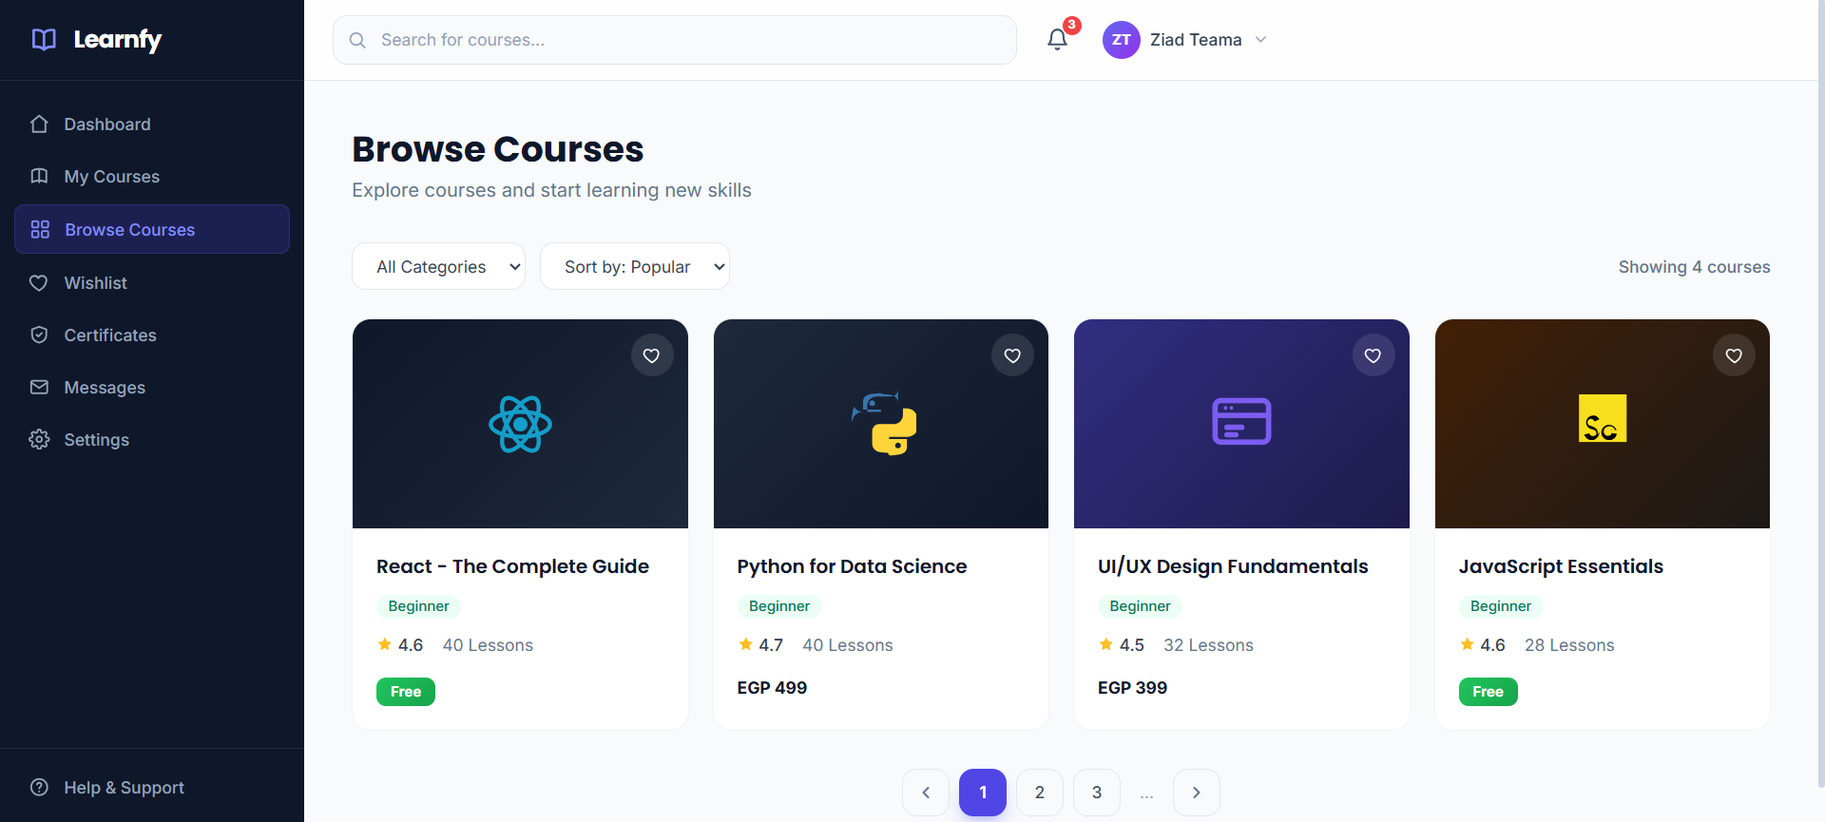
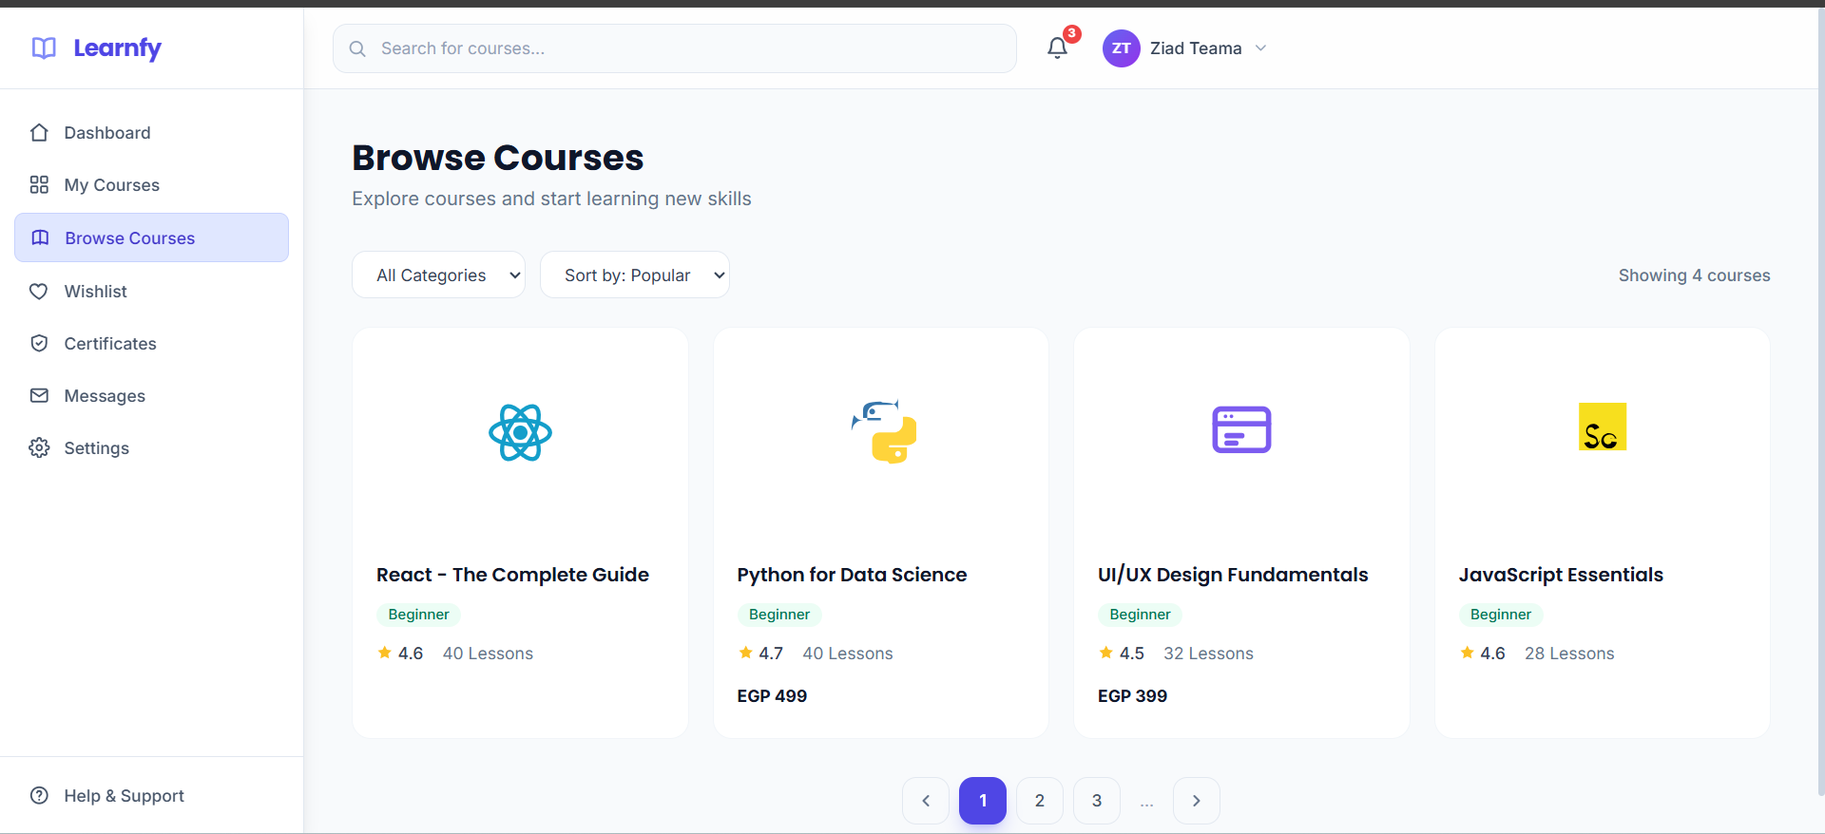
lighten the design

diff --git a/index.html b/index.html
@@ -1,9 +1,9 @@
 <!DOCTYPE html>
-<html lang="en" dir="ltr">
+<html lang="ar" dir="ltr">
 <head>
     <meta charset="UTF-8">
     <meta name="viewport" content="width=device-width, initial-scale=1, viewport-fit=cover">
-    <title>Learnfy — Browse Courses</title>
+    <title>Learnfy — My Courses</title>
     <link rel="preconnect" href="https://fonts.googleapis.com">
     <link rel="preconnect" href="https://fonts.gstatic.com" crossorigin>
     <link href="https://fonts.googleapis.com/css2?family=Inter:wght@400;500;600;700;800&family=Poppins:wght@600;700;800&display=swap" rel="stylesheet">
@@ -21,8 +21,8 @@
                         'primary-dark': '#4338ca',
                         danger: '#ef4444',
                         success: '#22c55e',
-                        'sidebar-bg': '#0f172a',
-                        'sidebar-hover': '#1e293b',
+                        'sidebar-bg': '#ffffff',
+                        'sidebar-hover': '#eef2ff',
                         'card-bg': '#ffffff',
                         'body-bg': '#f8fafc',
                         'text-muted': '#64748b',
@@ -33,43 +33,37 @@
         }
     </script>
     <style>
-        html{scroll-behavior:smooth;} body { font-family: 'Inter', sans-serif; background-color: #f8fafc; } #sidebar{scrollbar-width:none;} #sidebar::-webkit-scrollbar{display:none;}
+        body { font-family: 'Inter', sans-serif; background-color: #f8fafc; }
         .font-display { font-family: 'Poppins', sans-serif; }
 
-        /* Custom scrollbar */
         ::-webkit-scrollbar { width: 6px; }
         ::-webkit-scrollbar-track { background: transparent; }
         ::-webkit-scrollbar-thumb { background: #cbd5e1; border-radius: 3px; }
         ::-webkit-scrollbar-thumb:hover { background: #94a3b8; }
 
-        /* Card image backgrounds */
-        .card-img-react { background: linear-gradient(135deg, #0f172a 0%, #1e293b 100%); }
-        .card-img-python { background: linear-gradient(135deg, #1e293b 0%, #0f172a 100%); }
-        .card-img-uiux { background: linear-gradient(135deg, #312e81 0%, #1e1b4b 100%); }
-        .card-img-js { background: linear-gradient(135deg, #422006 0%, #1c1917 100%); }
-
-        /* Wishlist animation */
-        .wishlist-btn:active svg { transform: scale(0.85); }
-        .wishlist-btn svg { transition: transform 0.15s ease; }
-
-        /* Card hover lift */
         .course-card { transition: transform 0.2s ease, box-shadow 0.2s ease; }
-        .course-card:hover { transform: translateY(-4px); box-shadow: 0 20px 25px -5px rgba(0,0,0,0.1), 0 10px 10px -5px rgba(0,0,0,0.04); }
+        .course-card:hover { transform: translateY(-2px); box-shadow: 0 10px 15px -3px rgba(0,0,0,0.08), 0 4px 6px -2px rgba(0,0,0,0.04); }
 
-        /* Nav link transition */
         .nav-link-item { transition: all 0.2s ease; }
-
-        /* Sidebar transition */
         .sidebar-panel { transition: transform 0.3s cubic-bezier(0.4, 0, 0.2, 1); }
-
-        /* Overlay fade */
         .sidebar-overlay { transition: opacity 0.3s ease; }
 
-        /* Pagination button */
-        .page-btn { transition: all 0.15s ease; }
+        .dropdown-panel { transition: opacity 0.15s ease, transform 0.15s ease; }
+        .dropdown-panel.hidden { opacity: 0; transform: translateY(-4px); pointer-events: none; }
+        .dropdown-panel:not(.hidden) { opacity: 1; transform: translateY(0); pointer-events: auto; }
 
-        /* Free badge */
-        .badge-free { background: linear-gradient(135deg, #22c55e 0%, #16a34a 100%); }
+        .tab-btn { transition: all 0.2s ease; }
+
+        .progress-fill { transition: width 0.6s cubic-bezier(0.4, 0, 0.2, 1); }
+
+        .icon-react { background: linear-gradient(135deg,#eef2ff,#dbeafe); }
+        .icon-python { background: linear-gradient(135deg,#eef2ff,#dbeafe); }
+        .icon-uiux { background: linear-gradient(135deg,#eef2ff,#dbeafe); }
+        .icon-excel { background: linear-gradient(135deg,#eef2ff,#dbeafe); }
+    
+        .nav-link-item:hover{transform:translateX(6px);}
+        .course-card:hover{transform:translateY(-6px);box-shadow:0 20px 40px rgba(0,0,0,.08);}
+
     </style>
 </head>
 <body class="bg-body-bg text-slate-800 antialiased">
@@ -80,40 +74,65 @@
     <div class="flex min-h-screen">
 
         <!-- SIDEBAR -->
-        <aside id="sidebar" class="sidebar-panel fixed top-0 left-0 h-screen z-50 w-64 bg-sidebar-bg text-slate-300 flex flex-col overflow-y-auto transform -translate-x-full lg:translate-x-0">
-            <!-- Brand -->
-            <div class="flex items-center gap-3 px-6 py-5 border-b border-slate-700/50">
-                <svg width="26" height="26" viewBox="0 0 24 24" fill="none" stroke="currentColor" stroke-width="2" stroke-linecap="round" stroke-linejoin="round" class="text-indigo-400">
-                    <path d="M12 7c-2-2-5-2.5-8-2v13c3-.5 6 0 8 2 2-2 5-2.5 8-2V5c-3-.5-6 0-8 2Z"/><path d="M12 7v13"/>
+        <aside id="sidebar" class="sidebar-panel fixed inset-y-0 left-0 z-50 w-64 bg-white text-slate-700 border-r border-slate-200 shadow-lg flex flex-col transform -translate-x-full lg:translate-x-0">
+
+            <!-- Close button (mobile) -->
+            <button id="sidebarClose" class="lg:hidden absolute top-4 right-4 p-2 rounded-lg hover:bg-slate-700 text-slate-400" aria-label="إغلاق القائمة" onclick="toggleMenu()">
+                <svg width="16" height="16" viewBox="0 0 24 24" fill="none" stroke="currentColor" stroke-width="2" stroke-linecap="round">
+                    <path d="M18 6 6 18M6 6l12 12"/>
                 </svg>
-                <span class="font-display font-bold text-xl text-white tracking-tight">Learnfy</span>
+            </button>
+
+            <!-- Brand -->
+            <div class="flex items-center gap-3 px-6 py-5 border-b border-slate-200">
+                <svg width="26" height="26" viewBox="0 0 24 24" fill="none" stroke="currentColor" stroke-width="2" stroke-linecap="round" stroke-linejoin="round" class="text-indigo-400">
+                    <path d="M12 7c-2-2-5-2.5-8-2v13c3-.5 6 0 8 2 2-2 5-2.5 8-2V5c-3-.5-6 0-8 2Z"/>
+                    <path d="M12 7v13"/>
+                </svg>
+                <span class="font-display font-bold text-xl text-indigo-600 tracking-tight">Learnfy</span>
             </div>
 
             <!-- Navigation -->
-            <nav class="flex-1 overflow-y-auto py-4 px-3 space-y-1">
-                <button class="nav-link-item w-full flex items-center gap-3 px-3 py-2.5 rounded-lg text-sm font-medium hover:bg-sidebar-hover hover:text-white text-slate-400">
-                    <svg width="18" height="18" viewBox="0 0 24 24" fill="none" stroke="currentColor" stroke-width="2" stroke-linecap="round" stroke-linejoin="round"><path d="M3 10.5 12 3l9 7.5"/><path d="M5 9.5V21h14V9.5"/></svg>
+            <nav class="flex-1 overflow-y-auto py-4 px-3 space-y-1" aria-label="التنقل">
+                <button class="nav-link-item w-full flex items-center gap-3 px-3 py-2.5 rounded-lg text-sm font-medium hover:bg-indigo-50 hover:text-indigo-600 text-slate-600">
+                    <svg width="18" height="18" viewBox="0 0 24 24" fill="none" stroke="currentColor" stroke-width="2" stroke-linecap="round" stroke-linejoin="round">
+                        <path d="M3 10.5 12 3l9 7.5"/>
+                        <path d="M5 9.5V21h14V9.5"/>
+                    </svg>
                     Dashboard
                 </button>
 
                 <a href="MyCourses.html" class="block">
-                    <button class="nav-link-item w-full flex items-center gap-3 px-3 py-2.5 rounded-lg text-sm font-medium hover:bg-sidebar-hover hover:text-white text-slate-400">
-                        <svg width="18" height="18" viewBox="0 0 24 24" fill="none" stroke="currentColor" stroke-width="2" stroke-linecap="round" stroke-linejoin="round"><path d="M4 6c2-1.5 5-2 8-2s6 .5 8 2v13c-2-1.5-5-2-8-2s-6 .5-8 2Z"/><path d="M12 4v15"/></svg>
+                    <button class="nav-link-item w-full flex items-center gap-3 px-3 py-2.5 rounded-lg text-sm font-medium hover:bg-indigo-50 hover:text-indigo-600 text-slate-600">
+                        <svg width="18" height="18" viewBox="0 0 24 24" fill="none" stroke="currentColor" stroke-width="2" stroke-linecap="round" stroke-linejoin="round">
+                            <rect x="3" y="3" width="7" height="7" rx="1.5"/>
+                            <rect x="14" y="3" width="7" height="7" rx="1.5"/>
+                            <rect x="3" y="14" width="7" height="7" rx="1.5"/>
+                            <rect x="14" y="14" width="7" height="7" rx="1.5"/>
+                        </svg>
                         My Courses
                     </button>
                 </a>
 
-                <button class="nav-link-item w-full flex items-center gap-3 px-3 py-2.5 rounded-lg text-sm font-medium bg-indigo-600/20 text-indigo-400 border border-indigo-500/20">
-                    <svg width="18" height="18" viewBox="0 0 24 24" fill="none" stroke="currentColor" stroke-width="2" stroke-linecap="round" stroke-linejoin="round"><rect x="3" y="3" width="7" height="7" rx="1.5"/><rect x="14" y="3" width="7" height="7" rx="1.5"/><rect x="3" y="14" width="7" height="7" rx="1.5"/><rect x="14" y="14" width="7" height="7" rx="1.5"/></svg>
+                
+
+                <button class="nav-link-item w-full flex items-center gap-3 px-3 py-2.5 rounded-lg text-sm font-medium bg-indigo-100 text-indigo-700 border border-indigo-200" aria-current="page">
+                    <svg width="18" height="18" viewBox="0 0 24 24" fill="none" stroke="currentColor" stroke-width="2" stroke-linecap="round" stroke-linejoin="round">
+                        <path d="M4 6c2-1.5 5-2 8-2s6 .5 8 2v13c-2-1.5-5-2-8-2s-6 .5-8 2Z"/>
+                        <path d="M12 4v15"/>
+                    </svg>
                     Browse Courses
                 </button>
+                
 
-                <button class="nav-link-item w-full flex items-center gap-3 px-3 py-2.5 rounded-lg text-sm font-medium hover:bg-sidebar-hover hover:text-white text-slate-400">
-                    <svg width="18" height="18" viewBox="0 0 24 24" fill="none" stroke="currentColor" stroke-width="2" stroke-linecap="round" stroke-linejoin="round"><path d="M12 21s-7-4.35-9.5-8.8C.5 8.2 3 4.5 6.7 4.5c2 0 3.6 1.1 4.3 2.7.7-1.6 2.3-2.7 4.3-2.7 3.7 0 6.2 3.7 4.2 7.7C19 16.65 12 21 12 21Z"/></svg>
+                <button class="nav-link-item w-full flex items-center gap-3 px-3 py-2.5 rounded-lg text-sm font-medium hover:bg-indigo-50 hover:text-indigo-600 text-slate-600">
+                    <svg width="18" height="18" viewBox="0 0 24 24" fill="none" stroke="currentColor" stroke-width="2" stroke-linecap="round" stroke-linejoin="round">
+                        <path d="M12 21s-7-4.35-9.5-8.8C.5 8.2 3 4.5 6.7 4.5c2 0 3.6 1.1 4.3 2.7.7-1.6 2.3-2.7 4.3-2.7 3.7 0 6.2 3.7 4.2 7.7C19 16.65 12 21 12 21Z"/>
+                    </svg>
                     Wishlist
                 </button>
 
-                <button class="nav-link-item w-full flex items-center gap-3 px-3 py-2.5 rounded-lg text-sm font-medium hover:bg-sidebar-hover hover:text-white text-slate-400">
+                <button class="nav-link-item w-full flex items-center gap-3 px-3 py-2.5 rounded-lg text-sm font-medium hover:bg-indigo-50 hover:text-indigo-600 text-slate-600">
                     <svg width="18" height="18" viewBox="0 0 24 24" fill="none" stroke="currentColor" stroke-width="2" stroke-linecap="round" stroke-linejoin="round">
                         <path d="m9 12 2 2 4-4"/>
                         <path d="M12 3 4 6v6c0 4.5 3.2 7.7 8 9 4.8-1.3 8-4.5 8-9V6Z"/>
@@ -121,7 +140,7 @@
                     Certificates
                 </button>
 
-                <button class="nav-link-item w-full flex items-center gap-3 px-3 py-2.5 rounded-lg text-sm font-medium hover:bg-sidebar-hover hover:text-white text-slate-400">
+                <button class="nav-link-item w-full flex items-center gap-3 px-3 py-2.5 rounded-lg text-sm font-medium hover:bg-indigo-50 hover:text-indigo-600 text-slate-600">
                     <svg width="18" height="18" viewBox="0 0 24 24" fill="none" stroke="currentColor" stroke-width="2" stroke-linecap="round" stroke-linejoin="round">
                         <rect x="3" y="5" width="18" height="14" rx="2"/>
                         <path d="m3 7 9 6 9-6"/>
@@ -129,7 +148,7 @@
                     Messages
                 </button>
 
-                <button class="nav-link-item w-full flex items-center gap-3 px-3 py-2.5 rounded-lg text-sm font-medium hover:bg-sidebar-hover hover:text-white text-slate-400">
+                <button class="nav-link-item w-full flex items-center gap-3 px-3 py-2.5 rounded-lg text-sm font-medium hover:bg-indigo-50 hover:text-indigo-600 text-slate-600">
                     <svg width="18" height="18" viewBox="0 0 24 24" fill="none" stroke="currentColor" stroke-width="2" stroke-linecap="round" stroke-linejoin="round">
                         <circle cx="12" cy="12" r="3"/>
                         <path d="M19.4 15a1.65 1.65 0 0 0 .33 1.82l.06.06a2 2 0 1 1-2.83 2.83l-.06-.06a1.65 1.65 0 0 0-1.82-.33 1.65 1.65 0 0 0-1 1.51V21a2 2 0 1 1-4 0v-.09A1.65 1.65 0 0 0 9 19.4a1.65 1.65 0 0 0-1.82.33l-.06.06a2 2 0 1 1-2.83-2.83l.06-.06A1.65 1.65 0 0 0 4.68 15 1.65 1.65 0 0 0 3.17 14H3a2 2 0 1 1 0-4h.09A1.65 1.65 0 0 0 4.6 9a1.65 1.65 0 0 0-.33-1.82l-.06-.06a2 2 0 1 1 2.83-2.83l.06.06A1.65 1.65 0 0 0 9 4.6a1.65 1.65 0 0 0 1-1.51V3a2 2 0 1 1 4 0v.09a1.65 1.65 0 0 0 1 1.51 1.65 1.65 0 0 0 1.82-.33l.06-.06a2 2 0 1 1 2.83 2.83l-.06.06A1.65 1.65 0 0 0 19.4 9c.14.4.4.74.75 1H21a2 2 0 1 1 0 4h-.09a1.65 1.65 0 0 0-1.51 1Z"/>
@@ -139,13 +158,18 @@
             </nav>
 
             <!-- Footer -->
-            <div class="border-t border-slate-700/50 p-3">
-                <button class="nav-link-item w-full flex items-center gap-3 px-3 py-2.5 rounded-lg text-sm font-medium hover:bg-sidebar-hover hover:text-white text-slate-400">
-                    <svg width="18" height="18" viewBox="0 0 24 24" fill="none" stroke="currentColor" stroke-width="2" stroke-linecap="round" stroke-linejoin="round"><circle cx="12" cy="12" r="9"/><path d="M9.5 9a2.5 2.5 0 0 1 4.9.8c0 1.7-2.4 2-2.4 3.7"/><path d="M12 17h.01"/></svg>
-                    Help & Support
+            <div class="border-t border-slate-200 p-3">
+                <button class="nav-link-item w-full flex items-center gap-3 px-3 py-2.5 rounded-lg text-sm font-medium hover:bg-indigo-50 hover:text-indigo-600 text-slate-600">
+                    <svg width="18" height="18" viewBox="0 0 24 24" fill="none" stroke="currentColor" stroke-width="2" stroke-linecap="round" stroke-linejoin="round">
+                        <circle cx="12" cy="12" r="9"/>
+                        <path d="M9.5 9a2.5 2.5 0 0 1 4.9.8c0 1.7-2.4 2-2.4 3.7"/>
+                        <path d="M12 17h.01"/>
+                    </svg>
+                    Help &amp; Support
                 </button>
             </div>
         </aside>
+
 
         <!-- MAIN CONTENT -->
         <div class="flex-1 flex flex-col min-w-0 lg:ml-64">

diff --git a/MyCourses.html b/MyCourses.html
@@ -21,8 +21,8 @@
                         'primary-dark': '#4338ca',
                         danger: '#ef4444',
                         success: '#22c55e',
-                        'sidebar-bg': '#0f172a',
-                        'sidebar-hover': '#1e293b',
+                        'sidebar-bg': '#ffffff',
+                        'sidebar-hover': '#eef2ff',
                         'card-bg': '#ffffff',
                         'body-bg': '#f8fafc',
                         'text-muted': '#64748b',
@@ -56,10 +56,10 @@
 
         .progress-fill { transition: width 0.6s cubic-bezier(0.4, 0, 0.2, 1); }
 
-        .icon-react { background: linear-gradient(135deg, #0f172a 0%, #1e293b 100%); }
-        .icon-python { background: linear-gradient(135deg, #1e293b 0%, #0f172a 100%); }
-        .icon-uiux { background: linear-gradient(135deg, #312e81 0%, #1e1b4b 100%); }
-        .icon-excel { background: linear-gradient(135deg, #064e3b 0%, #065f46 100%); }
+        .icon-react { background: linear-gradient(135deg,#eef2ff,#dbeafe); }
+        .icon-python { background: linear-gradient(135deg,#eef2ff,#dbeafe); }
+        .icon-uiux { background: linear-gradient(135deg,#eef2ff,#dbeafe); }
+        .icon-excel { background: linear-gradient(135deg,#eef2ff,#dbeafe); }
     
         .nav-link-item:hover{transform:translateX(6px);}
         .course-card:hover{transform:translateY(-6px);box-shadow:0 20px 40px rgba(0,0,0,.08);}
@@ -74,7 +74,7 @@
     <div class="flex min-h-screen">
 
         <!-- SIDEBAR -->
-        <aside id="sidebar" class="sidebar-panel fixed inset-y-0 left-0 z-50 w-64 bg-sidebar-bg text-slate-300 flex flex-col transform -translate-x-full lg:translate-x-0">
+        <aside id="sidebar" class="sidebar-panel fixed inset-y-0 left-0 z-50 w-64 bg-white text-slate-700 border-r border-slate-200 shadow-lg flex flex-col transform -translate-x-full lg:translate-x-0">
 
             <!-- Close button (mobile) -->
             <button id="sidebarClose" class="lg:hidden absolute top-4 right-4 p-2 rounded-lg hover:bg-slate-700 text-slate-400" aria-label="إغلاق القائمة" onclick="toggleMenu()">
@@ -84,17 +84,17 @@
             </button>
 
             <!-- Brand -->
-            <div class="flex items-center gap-3 px-6 py-5 border-b border-slate-700/50">
+            <div class="flex items-center gap-3 px-6 py-5 border-b border-slate-200">
                 <svg width="26" height="26" viewBox="0 0 24 24" fill="none" stroke="currentColor" stroke-width="2" stroke-linecap="round" stroke-linejoin="round" class="text-indigo-400">
                     <path d="M12 7c-2-2-5-2.5-8-2v13c3-.5 6 0 8 2 2-2 5-2.5 8-2V5c-3-.5-6 0-8 2Z"/>
                     <path d="M12 7v13"/>
                 </svg>
-                <span class="font-display font-bold text-xl text-white tracking-tight">Learnfy</span>
+                <span class="font-display font-bold text-xl text-indigo-600 tracking-tight">Learnfy</span>
             </div>
 
             <!-- Navigation -->
             <nav class="flex-1 overflow-y-auto py-4 px-3 space-y-1" aria-label="التنقل">
-                <button class="nav-link-item w-full flex items-center gap-3 px-3 py-2.5 rounded-lg text-sm font-medium hover:bg-sidebar-hover hover:text-white text-slate-400">
+                <button class="nav-link-item w-full flex items-center gap-3 px-3 py-2.5 rounded-lg text-sm font-medium hover:bg-indigo-50 hover:text-indigo-600 text-slate-600">
                     <svg width="18" height="18" viewBox="0 0 24 24" fill="none" stroke="currentColor" stroke-width="2" stroke-linecap="round" stroke-linejoin="round">
                         <path d="M3 10.5 12 3l9 7.5"/>
                         <path d="M5 9.5V21h14V9.5"/>
@@ -102,7 +102,7 @@
                     Dashboard
                 </button>
 
-                <button class="nav-link-item w-full flex items-center gap-3 px-3 py-2.5 rounded-lg text-sm font-medium bg-indigo-600/20 text-indigo-400 border border-indigo-500/20" aria-current="page">
+                <button class="nav-link-item w-full flex items-center gap-3 px-3 py-2.5 rounded-lg text-sm font-medium bg-indigo-100 text-indigo-700 border border-indigo-200" aria-current="page">
                     <svg width="18" height="18" viewBox="0 0 24 24" fill="none" stroke="currentColor" stroke-width="2" stroke-linecap="round" stroke-linejoin="round">
                         <path d="M4 6c2-1.5 5-2 8-2s6 .5 8 2v13c-2-1.5-5-2-8-2s-6 .5-8 2Z"/>
                         <path d="M12 4v15"/>
@@ -111,7 +111,7 @@
                 </button>
 
                 <a href="index.html" class="block">
-                    <button class="nav-link-item w-full flex items-center gap-3 px-3 py-2.5 rounded-lg text-sm font-medium hover:bg-sidebar-hover hover:text-white text-slate-400">
+                    <button class="nav-link-item w-full flex items-center gap-3 px-3 py-2.5 rounded-lg text-sm font-medium hover:bg-indigo-50 hover:text-indigo-600 text-slate-600">
                         <svg width="18" height="18" viewBox="0 0 24 24" fill="none" stroke="currentColor" stroke-width="2" stroke-linecap="round" stroke-linejoin="round">
                             <rect x="3" y="3" width="7" height="7" rx="1.5"/>
                             <rect x="14" y="3" width="7" height="7" rx="1.5"/>
@@ -122,14 +122,14 @@
                     </button>
                 </a>
 
-                <button class="nav-link-item w-full flex items-center gap-3 px-3 py-2.5 rounded-lg text-sm font-medium hover:bg-sidebar-hover hover:text-white text-slate-400">
+                <button class="nav-link-item w-full flex items-center gap-3 px-3 py-2.5 rounded-lg text-sm font-medium hover:bg-indigo-50 hover:text-indigo-600 text-slate-600">
                     <svg width="18" height="18" viewBox="0 0 24 24" fill="none" stroke="currentColor" stroke-width="2" stroke-linecap="round" stroke-linejoin="round">
                         <path d="M12 21s-7-4.35-9.5-8.8C.5 8.2 3 4.5 6.7 4.5c2 0 3.6 1.1 4.3 2.7.7-1.6 2.3-2.7 4.3-2.7 3.7 0 6.2 3.7 4.2 7.7C19 16.65 12 21 12 21Z"/>
                     </svg>
                     Wishlist
                 </button>
 
-                <button class="nav-link-item w-full flex items-center gap-3 px-3 py-2.5 rounded-lg text-sm font-medium hover:bg-sidebar-hover hover:text-white text-slate-400">
+                <button class="nav-link-item w-full flex items-center gap-3 px-3 py-2.5 rounded-lg text-sm font-medium hover:bg-indigo-50 hover:text-indigo-600 text-slate-600">
                     <svg width="18" height="18" viewBox="0 0 24 24" fill="none" stroke="currentColor" stroke-width="2" stroke-linecap="round" stroke-linejoin="round">
                         <path d="m9 12 2 2 4-4"/>
                         <path d="M12 3 4 6v6c0 4.5 3.2 7.7 8 9 4.8-1.3 8-4.5 8-9V6Z"/>
@@ -137,7 +137,7 @@
                     Certificates
                 </button>
 
-                <button class="nav-link-item w-full flex items-center gap-3 px-3 py-2.5 rounded-lg text-sm font-medium hover:bg-sidebar-hover hover:text-white text-slate-400">
+                <button class="nav-link-item w-full flex items-center gap-3 px-3 py-2.5 rounded-lg text-sm font-medium hover:bg-indigo-50 hover:text-indigo-600 text-slate-600">
                     <svg width="18" height="18" viewBox="0 0 24 24" fill="none" stroke="currentColor" stroke-width="2" stroke-linecap="round" stroke-linejoin="round">
                         <rect x="3" y="5" width="18" height="14" rx="2"/>
                         <path d="m3 7 9 6 9-6"/>
@@ -145,7 +145,7 @@
                     Messages
                 </button>
 
-                <button class="nav-link-item w-full flex items-center gap-3 px-3 py-2.5 rounded-lg text-sm font-medium hover:bg-sidebar-hover hover:text-white text-slate-400">
+                <button class="nav-link-item w-full flex items-center gap-3 px-3 py-2.5 rounded-lg text-sm font-medium hover:bg-indigo-50 hover:text-indigo-600 text-slate-600">
                     <svg width="18" height="18" viewBox="0 0 24 24" fill="none" stroke="currentColor" stroke-width="2" stroke-linecap="round" stroke-linejoin="round">
                         <circle cx="12" cy="12" r="3"/>
                         <path d="M19.4 15a1.65 1.65 0 0 0 .33 1.82l.06.06a2 2 0 1 1-2.83 2.83l-.06-.06a1.65 1.65 0 0 0-1.82-.33 1.65 1.65 0 0 0-1 1.51V21a2 2 0 1 1-4 0v-.09A1.65 1.65 0 0 0 9 19.4a1.65 1.65 0 0 0-1.82.33l-.06.06a2 2 0 1 1-2.83-2.83l.06-.06A1.65 1.65 0 0 0 4.68 15 1.65 1.65 0 0 0 3.17 14H3a2 2 0 1 1 0-4h.09A1.65 1.65 0 0 0 4.6 9a1.65 1.65 0 0 0-.33-1.82l-.06-.06a2 2 0 1 1 2.83-2.83l.06.06A1.65 1.65 0 0 0 9 4.6a1.65 1.65 0 0 0 1-1.51V3a2 2 0 1 1 4 0v.09a1.65 1.65 0 0 0 1 1.51 1.65 1.65 0 0 0 1.82-.33l.06-.06a2 2 0 1 1 2.83 2.83l-.06.06A1.65 1.65 0 0 0 19.4 9c.14.4.4.74.75 1H21a2 2 0 1 1 0 4h-.09a1.65 1.65 0 0 0-1.51 1Z"/>
@@ -155,8 +155,8 @@
             </nav>
 
             <!-- Footer -->
-            <div class="border-t border-slate-700/50 p-3">
-                <button class="nav-link-item w-full flex items-center gap-3 px-3 py-2.5 rounded-lg text-sm font-medium hover:bg-sidebar-hover hover:text-white text-slate-400">
+            <div class="border-t border-slate-200 p-3">
+                <button class="nav-link-item w-full flex items-center gap-3 px-3 py-2.5 rounded-lg text-sm font-medium hover:bg-indigo-50 hover:text-indigo-600 text-slate-600">
                     <svg width="18" height="18" viewBox="0 0 24 24" fill="none" stroke="currentColor" stroke-width="2" stroke-linecap="round" stroke-linejoin="round">
                         <circle cx="12" cy="12" r="9"/>
                         <path d="M9.5 9a2.5 2.5 0 0 1 4.9.8c0 1.7-2.4 2-2.4 3.7"/>
